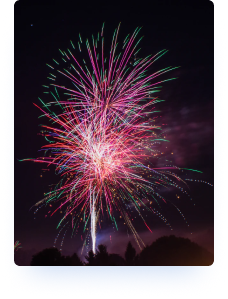
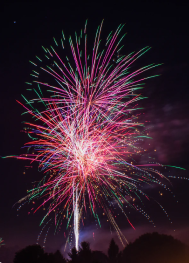
Add achievements main mobile styles

diff --git a/dist/css/styles.min.css b/dist/css/styles.min.css
@@ -1,1 +1,1 @@
-body{margin:0}a,li,p{font-family:Poppins}h1,h2,h3,h4,h5{font-family:Josefin Sans}.about__watch__text,.customer__role,.footer__copyright,.footer__item,.suptitle--blue{font-size:14px;font-weight:600;line-height:21px}.suptitle--blue{color:#00bfc4}.achievement__text,.main__text,.team__text{font-size:22px}.button{font-family:Poppins;font-size:18px;line-height:27px;text-align:center}@media (min-width:768px){.button{font-weight:600}}.nav__item a{color:#083038;font-size:14px;font-weight:500;letter-spacing:.004em;line-height:14px}.hero__suptitle:after{background-color:#00bfc4;border-radius:6px;content:"";display:block;height:3px;position:absolute;right:50%;transform:translate(50%,15%);width:80px}.hero__title{-webkit-text-fill-color:transparent;background:linear-gradient(90deg,#00788a 6.67%,#74dcdf 94.66%);background-clip:text;-webkit-background-clip:text;color:transparent;font-size:50px}@media (min-width:1024px){.hero__title{font-size:100px;line-height:100px}}.hero__link{color:#43808c;font-family:Josefin Sans;font-size:14px;letter-spacing:0;line-height:16px;text-decoration:underline}.about__text{font-weight:600}.about__text--light{color:#083038}.about__watch__text{color:#00788a;line-height:1.2;margin:0;padding:0;text-align:left}.title--blue{color:#00788a;font-size:44px;letter-spacing:.01em;line-height:60px}.main__text{line-height:34px}.main__suptitle:after{background-color:#00bfc4;border-radius:6px;content:"";display:block;height:3px;position:absolute;right:50%;transform:translate(50%,15%);width:50px}.main__bubble__text,.service__text{font-size:12px;font-weight:400;line-height:18px}.main__bubble__title{color:#00788a;font-size:20px;font-weight:600;line-height:30px}.services__suptitle:after{background-color:#00bfc4;border-radius:6px;content:"";display:block;height:3px;position:absolute;right:50%;transform:translate(50%,15%);width:40px}.service__title{font-size:30px;font-weight:600;letter-spacing:.02em;line-height:35px;text-align:center}.service__text{font-size:15px;line-height:28px;text-align:center}.about__text--light,.newsletter__text{font-size:18px;font-weight:400;line-height:24px}.achievement__text{font-weight:400;line-height:34px}.achievement__image__title{color:#fff;font-size:46px;font-weight:800;letter-spacing:.02em;line-height:46px}.achievement__image__text{color:#fff;font-size:12px;font-style:normal;font-weight:600;letter-spacing:0;line-height:22px}.partners__title{text-align:center}.numbers__title{font-family:Poppins;font-size:46px;font-weight:800;letter-spacing:.02em;line-height:46px}.numbers__text{color:#083038;font-size:12px;font-style:normal;font-weight:600;line-height:12px}.team__text,.team__title{text-align:center}.team__text{font-weight:400;line-height:34px}.filter__button button{color:#000;font-family:Poppins;font-size:16px;font-weight:500;line-height:16px}.customer__name{font-family:Poppins;font-size:16px;font-weight:700;letter-spacing:.0025em;line-height:24px}.customer__role{font-weight:500;letter-spacing:.0025em}.customer__review{font-size:20px;font-style:italic;font-weight:500;letter-spacing:.02em;line-height:34px}.newsletter__title{color:#fff;font-size:44px;letter-spacing:.01em;line-height:56px}.newsletter__text{color:#fff}.footer{text-align:center}.footer__item__title{font-size:18px;letter-spacing:.01em;line-height:20px}.footer__copyright,.footer__item{font-weight:400;letter-spacing:.02em;line-height:40px}.button{align-items:center;border:none;border-radius:6px;display:flex;height:70px;justify-content:center;width:200px}.button--hero{background-color:#00bfc4;color:#fff}.button--hero:hover{filter:drop-shadow(2px 7px 6px #00bfc4)}.button--hero:active{border:1px solid #00788a}.button--view-all{background:linear-gradient(270deg,#fff 50%,#00bfc4 0)}.button--view-all:hover{background:#00bfc4}.filter__button{background:none;border:none;border-radius:6px;height:50px;padding:10px 0;text-align:center}.filter__button--active{background-color:#00bfc4}.customer__image img{width:100px}ul{padding-left:0}ul li{list-style:none}a{text-decoration:none}.wrapper{padding:20px}button:hover{cursor:pointer}.nav__menu__icon{justify-self:end}.nav__menu__icon path{fill:#00788a}.nav{align-items:center;display:grid;grid-template-columns:repeat(2,1fr)}.nav__menu{background:#ecf4ff;display:none;grid-column:1/-1;padding:20px 0;width:100%}@media (min-width:1024px){.nav__menu{display:block}}.nav__list{gap:15px}.nav__list,.nav__search{align-items:center;display:flex;flex-direction:column}.nav__search{gap:20px;margin-top:40px;position:relative}.nav__search__input{border:1px solid #083038;display:none;padding:10px}.nav__search__input__close{display:none;position:absolute;right:70px;top:10px;width:15px}.header{padding:20px;text-align:center}.header__bg{position:relative}.header__bg img{position:absolute;z-index:-1}.header__bg .quarter{width:15px}.header__bg .quarter--blue{top:200px;transform:translate(300%,100%)}.header__bg .quarter--yellow{top:100px;transform:translate(-700%,100%)}.header__bg .quarter--orange{top:80px;transform:translate(600%,100%)}.header__bg .circle--pi{transform:translate(150%,100%);width:50px}.header__bg .line--skewed{transform:translate(-180%,40%)}.header__bg .line--squigle{transform:translate(80%,40%)}.header .hero{padding:20px}.header .hero__buttons{display:grid;justify-content:center;row-gap:20px}.main{background-color:#eafbff}.main__wrapper{display:grid;text-align:center}.main__bg{position:relative}.main__bg img{position:absolute;width:40px}.main__bg__circle--blue{left:20px;top:600px}.main__bg__circle--dark-blue{right:50px}.main__bg__circle--half{left:0}.main__bg__circle--yellow{right:0;top:200px}.main__image img{background:linear-gradient(229.5deg,rgba(245,249,250,0) 21.55%,#a4dfee 96.28%);border-radius:100px;width:auto}.main__content{margin-top:50px}.main__title{margin-top:0}.main__bubble{align-items:center;display:flex;padding:20px 0;text-align:left}.main__bubble svg{align-self:baseline;width:100px}.main__bubble--fill{background-color:#fff;background:linear-gradient(270deg,#fff 1.37%,hsla(0,0%,100%,0) 98.02%);border-radius:40px}.main__bubble__title{margin:0}.services{margin:20px 0;text-align:center}.services__title{margin-top:0}.services__list{display:grid;row-gap:20px}.services .service__title{margin-bottom:0}.services .button--view-all{margin:0 auto}.about{text-align:center}.about__wrapper{background-image:url(/src/images/lightbulb-bg.svg);background-repeat:no-repeat}.about__image{background:#fff;border:none;border-radius:12px;box-shadow:4px 8px 44px -10px rgba(66,94,122,.18);display:flex;flex-direction:column;margin:0 auto;padding:20px;width:90%}.about__button{background-color:#083038;color:#00bfc4;gap:20px;width:100%}.about__content{margin:90px 0 50px}.about__title{margin-top:0}.about__watch{align-items:center;display:flex;gap:20px;margin:40px auto 0;padding:20px;width:50%}.about__watch .play-button{width:46px}.filter__wrapper{margin:20px 0}.filter__buttons{background:#f7ffff;border-radius:6px;box-shadow:0 21px 33px -10px rgba(37,126,129,.16);display:grid;gap:20px;grid-template-columns:repeat(3,1fr);padding:20px}.filter__images{display:grid;margin:0 auto 20px;row-gap:15px;width:300px}.filter__images img{width:100%}.filter__images img:hover{filter:drop-shadow(2px 4px 6px #00788a)}.filter .button--view-all{margin:0 auto}@font-face{font-family:Poppins;font-style:normal;font-weight:300;src:url(/dist/fonts/poppins/poppins-v19-latin-300.eot);src:local(""),url(/dist/fonts/poppins/poppins-v19-latin-300.eot?#iefix) format("embedded-opentype"),url(/dist/fonts/poppins/poppins-v19-latin-300.woff2) format("woff2"),url(/dist/fonts/poppins/poppins-v19-latin-300.woff) format("woff"),url(/dist/fonts/poppins/poppins-v19-latin-300.ttf) format("truetype"),url(/dist/fonts/poppins/poppins-v19-latin-300.svg#Poppins) format("svg")}@font-face{font-family:Poppins;font-style:normal;font-weight:400;src:url(/dist/fonts/poppins/poppins-v19-latin-regular.eot);src:local(""),url(/dist/fonts/poppins/poppins-v19-latin-regular.eot?#iefix) format("embedded-opentype"),url(/dist/fonts/poppins/poppins-v19-latin-regular.woff2) format("woff2"),url(/dist/fonts/poppins/poppins-v19-latin-regular.woff) format("woff"),url(/dist/fonts/poppins/poppins-v19-latin-regular.ttf) format("truetype"),url(/dist/fonts/poppins/poppins-v19-latin-regular.svg#Poppins) format("svg")}@font-face{font-family:Poppins;font-style:normal;font-weight:700;src:url(/dist/fonts/poppins/poppins-v19-latin-700.eot);src:local(""),url(/dist/fonts/poppins/poppins-v19-latin-700.eot?#iefix) format("embedded-opentype"),url(/dist/fonts/poppins/poppins-v19-latin-700.woff2) format("woff2"),url(/dist/fonts/poppins/poppins-v19-latin-700.woff) format("woff"),url(/dist/fonts/poppins/poppins-v19-latin-700.ttf) format("truetype"),url(/dist/fonts/poppins/poppins-v19-latin-700.svg#Poppins) format("svg")}@font-face{font-family:Josefin Sans;font-style:normal;font-weight:600;src:url(/dist/fonts/josefin-sans/josefin-sans-v23-latin-600.eot);src:local(""),url(/dist/fonts/josefin-sans/josefin-sans-v23-latin-600.eot?#iefix) format("embedded-opentype"),url(/dist/fonts/josefin-sans/josefin-sans-v23-latin-600.woff2) format("woff2"),url(/dist/fonts/josefin-sans/josefin-sans-v23-latin-600.woff) format("woff"),url(/dist/fonts/josefin-sans/josefin-sans-v23-latin-600.ttf) format("truetype"),url(/dist/fonts/josefin-sans/josefin-sans-v23-latin-600.svg#JosefinSans) format("svg")}@font-face{font-family:Josefin Sans;font-style:normal;font-weight:700;src:url(/dist/fonts/josefin-sans/josefin-sans-v23-latin-700.eot);src:local(""),url(/dist/fonts/josefin-sans/josefin-sans-v23-latin-700.eot?#iefix) format("embedded-opentype"),url(/dist/fonts/josefin-sans/josefin-sans-v23-latin-700.woff2) format("woff2"),url(/dist/fonts/josefin-sans/josefin-sans-v23-latin-700.woff) format("woff"),url(/dist/fonts/josefin-sans/josefin-sans-v23-latin-700.ttf) format("truetype"),url(/dist/fonts/josefin-sans/josefin-sans-v23-latin-700.svg#JosefinSans) format("svg")}
+body{margin:0}a,li,p{font-family:Poppins}h1,h2,h3,h4,h5{font-family:Josefin Sans}.about__watch__text,.customer__role,.footer__copyright,.footer__item,.suptitle--blue{font-size:14px;font-weight:600;line-height:21px}.suptitle--blue{color:#00bfc4}.achievement__text,.main__text,.team__text{font-size:22px}.button{font-family:Poppins;font-size:18px;line-height:27px;text-align:center}@media (min-width:768px){.button{font-weight:600}}.nav__item a{color:#083038;font-size:14px;font-weight:500;letter-spacing:.004em;line-height:14px}.hero__suptitle:after{background-color:#00bfc4;border-radius:6px;content:"";display:block;height:3px;position:absolute;right:50%;transform:translate(50%,15%);width:80px}.hero__title{-webkit-text-fill-color:transparent;background:linear-gradient(90deg,#00788a 6.67%,#74dcdf 94.66%);background-clip:text;-webkit-background-clip:text;color:transparent;font-size:50px}@media (min-width:1024px){.hero__title{font-size:100px;line-height:100px}}.hero__link{color:#43808c;font-family:Josefin Sans;font-size:14px;letter-spacing:0;line-height:16px;text-decoration:underline}.about__text{font-weight:600}.about__text--light{color:#083038}.about__watch__text{color:#00788a;line-height:1.2;margin:0;padding:0;text-align:left}.title--blue{color:#00788a;font-size:44px;letter-spacing:.01em;line-height:60px}.main__text{line-height:34px}.main__suptitle:after{background-color:#00bfc4;border-radius:6px;content:"";display:block;height:3px;position:absolute;right:50%;transform:translate(50%,15%);width:50px}.main__bubble__text,.service__text{font-size:12px;font-weight:400;line-height:18px}.main__bubble__title{color:#00788a;font-size:20px;font-weight:600;line-height:30px}.services__suptitle:after{background-color:#00bfc4;border-radius:6px;content:"";display:block;height:3px;position:absolute;right:50%;transform:translate(50%,15%);width:40px}.service__title{font-size:30px;font-weight:600;letter-spacing:.02em;line-height:35px;text-align:center}.service__text{font-size:15px;line-height:28px;text-align:center}.about__text--light,.newsletter__text{font-size:18px;font-weight:400;line-height:24px}.achievement__text{font-weight:400;line-height:34px}.achievement__image__title{color:#fff;font-size:55px;font-weight:800;letter-spacing:.02em;line-height:46px}.achievement__image__text{color:#fff;font-size:12px;font-style:normal;font-weight:600;letter-spacing:0;line-height:22px}.partners__title{text-align:center}.numbers__title{font-family:Poppins;font-size:46px;font-weight:800;letter-spacing:.02em;line-height:46px}.numbers__text{color:#083038;font-size:12px;font-style:normal;font-weight:600;line-height:12px}.team__text,.team__title{text-align:center}.team__text{font-weight:400;line-height:34px}.filter__button button{color:#000;font-family:Poppins;font-size:16px;font-weight:500;line-height:16px}.customer__name{font-family:Poppins;font-size:16px;font-weight:700;letter-spacing:.0025em;line-height:24px}.customer__role{font-weight:500;letter-spacing:.0025em}.customer__review{font-size:20px;font-style:italic;font-weight:500;letter-spacing:.02em;line-height:34px}.newsletter__title{color:#fff;font-size:44px;letter-spacing:.01em;line-height:56px}.newsletter__text{color:#fff}.footer{text-align:center}.footer__item__title{font-size:18px;letter-spacing:.01em;line-height:20px}.footer__copyright,.footer__item{font-weight:400;letter-spacing:.02em;line-height:40px}.button{align-items:center;border:none;border-radius:6px;display:flex;height:70px;justify-content:center;width:200px}.button--hero{background-color:#00bfc4;color:#fff}.button--hero:hover{filter:drop-shadow(2px 7px 6px #00bfc4)}.button--hero:active{border:1px solid #00788a}.button--view-all{background:linear-gradient(270deg,#fff 50%,#00bfc4 0)}.button--view-all:hover{background:#00bfc4}.filter__button{background:none;border:none;border-radius:6px;height:50px;padding:10px 0;text-align:center}.filter__button--active{background-color:#00bfc4}.customer__image img{width:100px}ul{padding-left:0}ul li{list-style:none}a{text-decoration:none}.wrapper{padding:20px}button:hover{cursor:pointer}.nav__menu__icon{justify-self:end}.nav__menu__icon path{fill:#00788a}.nav{align-items:center;display:grid;grid-template-columns:repeat(2,1fr)}.nav__menu{background:#ecf4ff;display:none;grid-column:1/-1;padding:20px 0;width:100%}@media (min-width:1024px){.nav__menu{display:block}}.nav__list{gap:15px}.nav__list,.nav__search{align-items:center;display:flex;flex-direction:column}.nav__search{gap:20px;margin-top:40px;position:relative}.nav__search__input{border:1px solid #083038;display:none;padding:10px}.nav__search__input__close{display:none;position:absolute;right:70px;top:10px;width:15px}.header{padding:20px;text-align:center}.header__bg{position:relative}.header__bg img{position:absolute;z-index:-1}.header__bg .quarter{width:15px}.header__bg .quarter--blue{top:200px;transform:translate(300%,100%)}.header__bg .quarter--yellow{top:100px;transform:translate(-700%,100%)}.header__bg .quarter--orange{top:80px;transform:translate(600%,100%)}.header__bg .circle--pi{transform:translate(150%,100%);width:50px}.header__bg .line--skewed{transform:translate(-180%,40%)}.header__bg .line--squigle{transform:translate(80%,40%)}.header .hero{padding:20px}.header .hero__buttons{display:grid;justify-content:center;row-gap:20px}.main{background-color:#eafbff}.main__wrapper{display:grid;text-align:center}.main__bg{position:relative}.main__bg img{position:absolute;width:40px}.main__bg__circle--blue{left:20px;top:600px}.main__bg__circle--dark-blue{right:50px}.main__bg__circle--half{left:0}.main__bg__circle--yellow{right:0;top:200px}.main__image img{background:linear-gradient(229.5deg,rgba(245,249,250,0) 21.55%,#a4dfee 96.28%);border-radius:100px;width:auto}.main__content{margin-top:50px}.main__title{margin-top:0}.main__bubble{align-items:center;display:flex;padding:20px 0;text-align:left}.main__bubble svg{align-self:baseline;width:100px}.main__bubble--fill{background-color:#fff;background:linear-gradient(270deg,#fff 1.37%,hsla(0,0%,100%,0) 98.02%);border-radius:40px}.main__bubble__title{margin:0}.services{margin:20px 0;text-align:center}.services__title{margin-top:0}.services__list{display:grid;row-gap:20px}.services .service__title{margin-bottom:0}.services .button--view-all{margin:0 auto}.about{text-align:center}.about__wrapper{background-image:url(/src/images/lightbulb-bg.svg);background-repeat:no-repeat}.about__image{background:#fff;border:none;border-radius:12px;box-shadow:4px 8px 44px -10px rgba(66,94,122,.18);display:flex;flex-direction:column;margin:0 auto;padding:20px;width:90%}.about__button{background-color:#083038;color:#00bfc4;gap:20px;width:100%}.about__content{margin:90px 0 50px}.about__title{margin-top:0}.about__watch{align-items:center;display:flex;gap:20px;margin:40px auto 0;padding:20px;width:50%}.about__watch .play-button{width:46px}.filter__wrapper{margin:20px 0}.filter__buttons{background:#f7ffff;border-radius:6px;box-shadow:0 21px 33px -10px rgba(37,126,129,.16);display:grid;gap:20px;grid-template-columns:repeat(3,1fr);padding:20px}.filter__images{display:grid;margin:0 auto 20px;row-gap:15px;width:300px}.filter__images img{width:100%}.filter__images img:hover{filter:drop-shadow(2px 4px 6px #00788a)}.filter .button--view-all{margin:0 auto}.achievement{margin-top:60px;text-align:center}.achievement__numbers{display:flex;flex-direction:column;gap:20px}.achievement .numbers__title{margin:0}.achievement .numbers__box{margin:0 auto;padding:20px 0;width:200px}.achievement .numbers__box:hover{filter:saturate(8)}.achievement .numbers__box--yellow{background-color:#fff6eb}.achievement .numbers__box--orange{background-color:#fff7f5}.achievement .numbers__box--green{background-color:#f0fffa}.achievement .numbers__box--blue{background-color:#ecf4ff}.achievement__image{background:url(/src/images/fireworks.png);background-repeat:no-repeat;background-size:cover;border-radius:6px;display:flex;flex-direction:column;gap:30px;height:350px;justify-content:center;margin:0 auto;padding:40px;text-align:left;width:300px}.achievement__image__title{margin:0}.achievement__image__text{width:50%}@font-face{font-family:Poppins;font-style:normal;font-weight:300;src:url(/dist/fonts/poppins/poppins-v19-latin-300.eot);src:local(""),url(/dist/fonts/poppins/poppins-v19-latin-300.eot?#iefix) format("embedded-opentype"),url(/dist/fonts/poppins/poppins-v19-latin-300.woff2) format("woff2"),url(/dist/fonts/poppins/poppins-v19-latin-300.woff) format("woff"),url(/dist/fonts/poppins/poppins-v19-latin-300.ttf) format("truetype"),url(/dist/fonts/poppins/poppins-v19-latin-300.svg#Poppins) format("svg")}@font-face{font-family:Poppins;font-style:normal;font-weight:400;src:url(/dist/fonts/poppins/poppins-v19-latin-regular.eot);src:local(""),url(/dist/fonts/poppins/poppins-v19-latin-regular.eot?#iefix) format("embedded-opentype"),url(/dist/fonts/poppins/poppins-v19-latin-regular.woff2) format("woff2"),url(/dist/fonts/poppins/poppins-v19-latin-regular.woff) format("woff"),url(/dist/fonts/poppins/poppins-v19-latin-regular.ttf) format("truetype"),url(/dist/fonts/poppins/poppins-v19-latin-regular.svg#Poppins) format("svg")}@font-face{font-family:Poppins;font-style:normal;font-weight:700;src:url(/dist/fonts/poppins/poppins-v19-latin-700.eot);src:local(""),url(/dist/fonts/poppins/poppins-v19-latin-700.eot?#iefix) format("embedded-opentype"),url(/dist/fonts/poppins/poppins-v19-latin-700.woff2) format("woff2"),url(/dist/fonts/poppins/poppins-v19-latin-700.woff) format("woff"),url(/dist/fonts/poppins/poppins-v19-latin-700.ttf) format("truetype"),url(/dist/fonts/poppins/poppins-v19-latin-700.svg#Poppins) format("svg")}@font-face{font-family:Josefin Sans;font-style:normal;font-weight:600;src:url(/dist/fonts/josefin-sans/josefin-sans-v23-latin-600.eot);src:local(""),url(/dist/fonts/josefin-sans/josefin-sans-v23-latin-600.eot?#iefix) format("embedded-opentype"),url(/dist/fonts/josefin-sans/josefin-sans-v23-latin-600.woff2) format("woff2"),url(/dist/fonts/josefin-sans/josefin-sans-v23-latin-600.woff) format("woff"),url(/dist/fonts/josefin-sans/josefin-sans-v23-latin-600.ttf) format("truetype"),url(/dist/fonts/josefin-sans/josefin-sans-v23-latin-600.svg#JosefinSans) format("svg")}@font-face{font-family:Josefin Sans;font-style:normal;font-weight:700;src:url(/dist/fonts/josefin-sans/josefin-sans-v23-latin-700.eot);src:local(""),url(/dist/fonts/josefin-sans/josefin-sans-v23-latin-700.eot?#iefix) format("embedded-opentype"),url(/dist/fonts/josefin-sans/josefin-sans-v23-latin-700.woff2) format("woff2"),url(/dist/fonts/josefin-sans/josefin-sans-v23-latin-700.woff) format("woff"),url(/dist/fonts/josefin-sans/josefin-sans-v23-latin-700.ttf) format("truetype"),url(/dist/fonts/josefin-sans/josefin-sans-v23-latin-700.svg#JosefinSans) format("svg")}

diff --git a/dist/css/styles.css b/dist/css/styles.css
@@ -177,7 +177,7 @@ h5 {
   line-height: 34px;
 }
 .achievement__image__title {
-  font-size: 46px;
+  font-size: 55px;
   font-weight: 800;
   line-height: 46px;
   letter-spacing: 0.02em;
@@ -572,6 +572,60 @@ button:hover {
 }
 .filter .button--view-all {
   margin: 0 auto;
+}
+
+.achievement {
+  text-align: center;
+  margin-top: 60px;
+}
+.achievement__numbers {
+  display: flex;
+  flex-direction: column;
+  gap: 20px;
+}
+.achievement .numbers__title {
+  margin: 0;
+}
+.achievement .numbers__box {
+  padding: 20px 0;
+  width: 200px;
+  margin: 0 auto;
+}
+.achievement .numbers__box:hover {
+  filter: saturate(8);
+}
+.achievement .numbers__box--yellow {
+  background-color: #fff6eb;
+}
+.achievement .numbers__box--orange {
+  background-color: #fff7f5;
+}
+.achievement .numbers__box--green {
+  background-color: #f0fffa;
+}
+.achievement .numbers__box--blue {
+  background-color: #ecf4ff;
+}
+.achievement__image {
+  width: 300px;
+  height: 350px;
+  display: flex;
+  flex-direction: column;
+  gap: 30px;
+  text-align: left;
+  justify-content: center;
+  padding: 40px;
+  margin: 0 auto;
+  background: url("/src/images/fireworks.png");
+  background-repeat: no-repeat;
+  background-size: cover;
+  border-radius: 6px;
+}
+.achievement__image__title {
+  margin: 0;
+}
+.achievement__image__text {
+  width: 50%;
 }
 
 /* poppins-300 - latin */

diff --git a/src/sass/layout/_achievement.scss b/src/sass/layout/_achievement.scss
@@ -1,0 +1,69 @@
+@use '../variables/colors' as colors;
+@import "../variables/breakpoints";
+
+.achievement {
+	text-align: center;
+	margin-top: 60px;
+
+	&__numbers {
+		display: flex;
+		flex-direction: column;
+		gap: 20px;
+	}
+
+	.numbers {
+		&__title {
+			margin: 0;
+		}
+
+		&__box {
+			padding: 20px 0;
+			width: 200px;
+			margin: 0 auto;
+
+			&:hover {
+				filter: saturate(8);
+			}
+
+			&--yellow {
+				background-color: colors.$light-yellow;
+			}
+
+			&--orange {
+				background-color: colors.$light-orange;
+			}
+
+			&--green {
+				background-color: colors.$light-green;
+			}
+
+			&--blue {
+				background-color: colors.$light-blue;
+			}
+		}
+	}
+
+	&__image {
+		width: 300px;
+		height: 350px;
+		display: flex;
+		flex-direction: column;
+		gap: 30px;
+		text-align: left;
+		justify-content: center;
+		padding: 40px;
+		margin: 0 auto;
+		background: url("/src/images/fireworks.png");
+		background-repeat: no-repeat;
+		background-size: cover;
+		border-radius: 6px;
+
+		&__title {
+			margin: 0;
+		}
+
+		&__text {
+			width: 50%;
+		}
+	}
+}

diff --git a/index.html b/index.html
@@ -376,7 +376,7 @@
 						<h3 class="numbers__title">1050</h3>
 						<p class="numbers__text">Completed Projects</p>
 					</div>
-					<div class="numbers__box numbers__box--pink">
+					<div class="numbers__box numbers__box--orange">
 						<h3 class="numbers__title">599</h3>
 						<p class="numbers__text">Satisfied Clients</p>
 					</div>
@@ -386,7 +386,7 @@
 					</div>
 					<div class="numbers__box numbers__box--blue">
 						<h3 class="numbers__title">50</h3>
-						<p>Nationlal Awards Winner</p>
+						<p class="numbers__text">National Awards Winner</p>
 					</div>
 					<div class="achievement__image">
 						<h3 class="achievement__image__title">25</h3>

diff --git a/src/sass/variables/_fonts.scss b/src/sass/variables/_fonts.scss
@@ -201,7 +201,7 @@ h5 {
 
 	&__image {
 		&__title {
-			font-size: 46px;
+			font-size: 55px;
 			font-weight: 800;
 			line-height: 46px;
 			letter-spacing: 0.02em;

diff --git a/src/sass/styles.scss b/src/sass/styles.scss
@@ -20,6 +20,7 @@
 @use "layout/services";
 @use "layout/about";
 @use "layout/filter";
+@use "layout/achievement";
 @use "layout/footer";
 @use "layout/typography";
 
